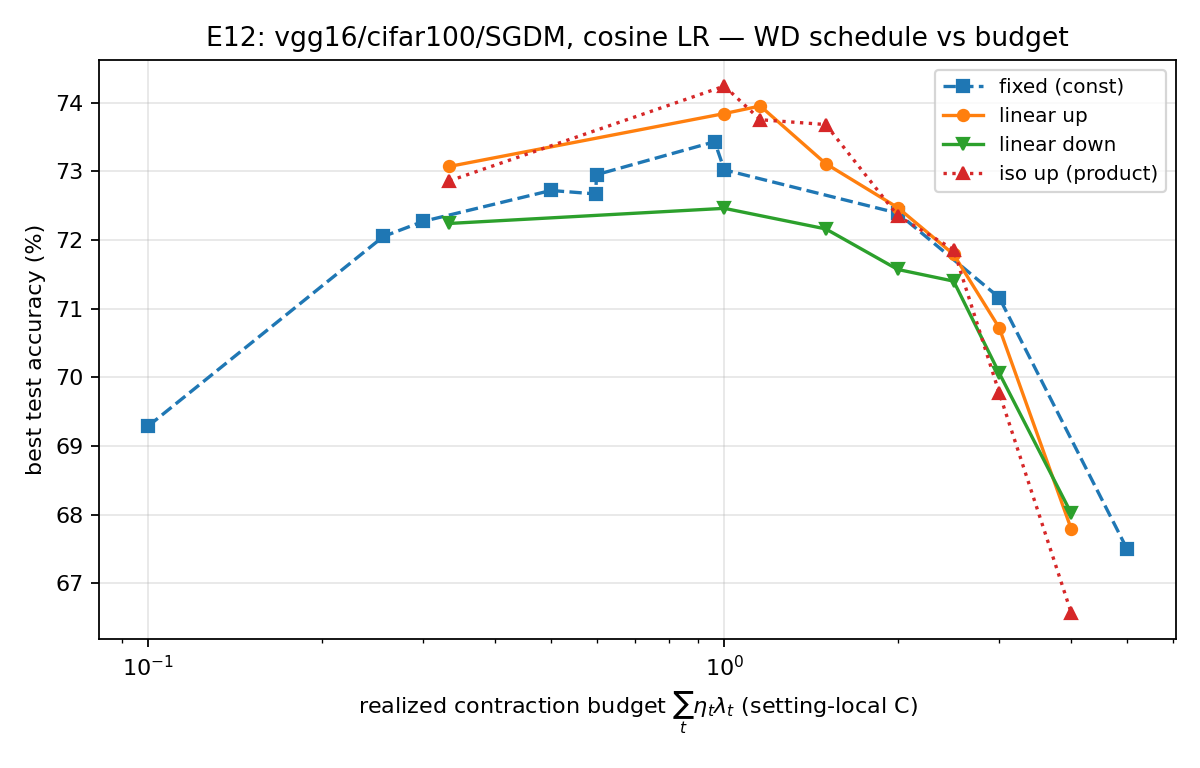
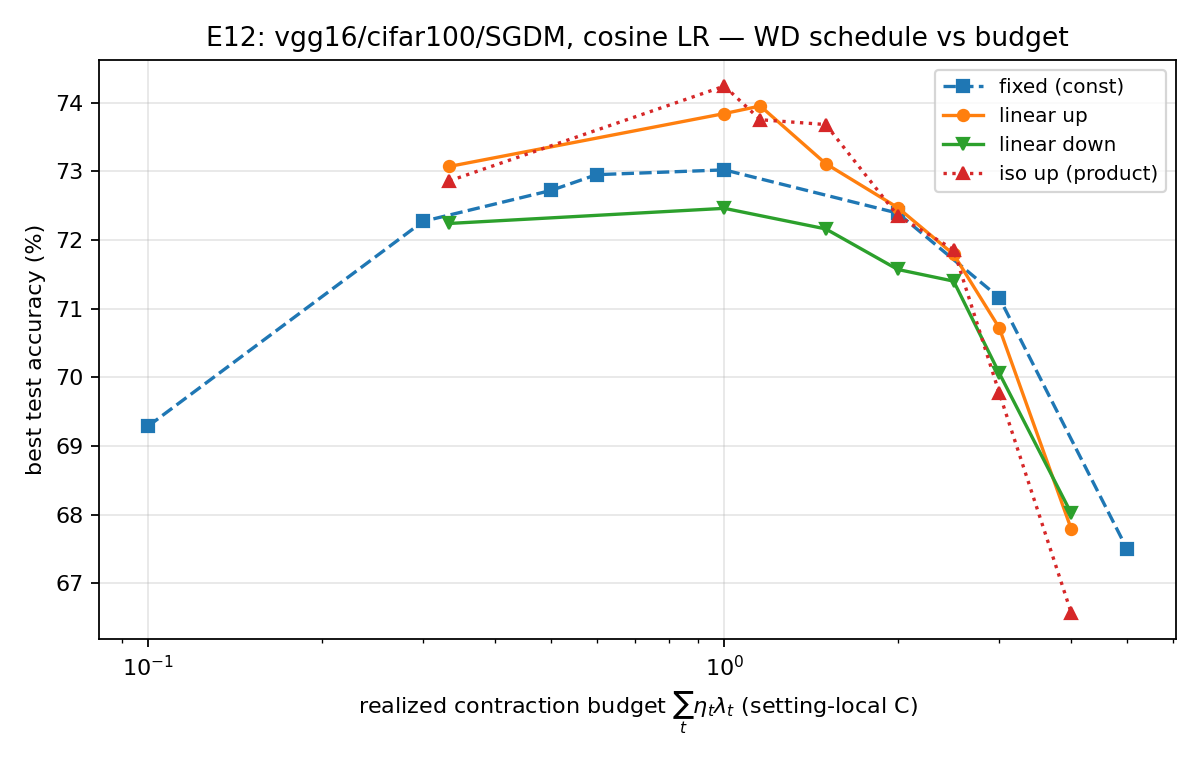
Main tables grid-search only; E4 prediction points moved to standalone doc e4_prediction_points.md

diff --git a/e12_multi_setting/e12_e4_table.py b/e12_multi_setting/e12_e4_table.py
@@ -1,0 +1,81 @@
+#!/usr/bin/env python
+"""
+E4 blind-prediction points — standalone document.
+
+The E4 arm of the rebuttal predicted lambda WITHOUT tuning (five strategies
+calibrated once on the R18 reference: zero / default 5e-4 / kosson
+(eta*lambda held) / wang (1/(eta*T_steps)) / ours (C/sum_lr)). Its rows,
+notably the 9.62e-4 "ours" variant, are EXCLUDED from the main E12
+grid-search tables and recorded here instead.
+
+Note: the current predict_wd() no longer reproduces these numbers (the
+reference C has since been refitted), so this table is a historical record
+of what was actually run, not a description of current code.
+
+Writes e12_multi_setting/e4_prediction_points.md
+"""
+from pathlib import Path
+
+import pandas as pd
+
+ROOT = Path(__file__).resolve().parent.parent
+E11_CSV = ROOT / 'e11_raise_up' / 'results' / 'nips26_e11_runs.csv'
+OUT = ROOT / 'e12_multi_setting' / 'e4_prediction_points.md'
+
+
+def main():
+    df = pd.read_csv(E11_CSV)
+    g = df[df['exp'] == 'e4'].copy()
+    g = g[['model', 'batch_size', 'lr', 'epochs', 'wd', 'best_test_acc',
+           'diverged']].sort_values(['model', 'batch_size', 'lr', 'epochs',
+                                     'wd'])
+
+    lines = [
+        '# E4 blind-prediction points (historical, excluded from E12 main tables)',
+        '',
+        'E4 predicted lambda with no tuning at the target setting: five',
+        'strategies calibrated once on the R18 reference, applied blind to',
+        'held-out settings. These rows are deliberately NOT part of the',
+        'grid-search narrative of the main tables: 1C there means the best',
+        'GRID-SEARCHED const WD, and these predicted points (e.g. 9.62e-4 on',
+        'R50/VGG16) would otherwise pollute that definition.',
+        '',
+        'Protocol: cosine LR, momentum 0.9, seed 42.',
+        '',
+        '## Protocol-matched rows (B=128, lr=0.1, T=100)',
+        '',
+    ]
+    main = g[(g['batch_size'] == 128) & (g['lr'] == 0.1) & (g['epochs'] == 100)]
+    lines.append('| model | lambda | best acc | diverged |')
+    lines.append('|---|---:|---:|---:|')
+    for _, r in main.iterrows():
+        lines.append(
+            f"| {r['model']} | {r['wd']:.4g} | {r['best_test_acc']:.2f} | "
+            f"{int(r['diverged'])} |")
+
+    lines += [
+        '',
+        'The 9.62e-4 rows beat the grid oracle on R50 (grid 1.1e-3 = 77.72)',
+        'and VGG16 (grid 1e-3 = 73.02) but are a prediction, not a search',
+        'result, so they are kept out of the main comparison. The 2.56e-4',
+        'rows are the wang strategy 1/(eta*T_steps); 5.98e-4 is ours/kosson',
+        'under the cosine-calibrated C.',
+        '',
+        '## All E4 rows (including R18 protocol variants)',
+        '',
+        '| model | B | lr | T | lambda | best acc | diverged |',
+        '|---|---:|---:|---:|---:|---:|---:|',
+    ]
+    for _, r in g.iterrows():
+        lines.append(
+            f"| {r['model']} | {int(r['batch_size'])} | {r['lr']:g} | "
+            f"{int(r['epochs'])} | {r['wd']:.4g} | "
+            f"{r['best_test_acc']:.2f} | {int(r['diverged'])} |")
+
+    lines.append('')
+    OUT.write_text('\n'.join(lines) + '\n')
+    print(f'wrote {OUT} ({len(g)} rows)')
+
+
+if __name__ == '__main__':
+    main()

diff --git a/analysis/nips26_e12_multi_setting.py b/analysis/nips26_e12_multi_setting.py
@@ -286,19 +286,10 @@ def main():
         key = f'{model}|{dataset}|{phase}'
         return float(anchors[key]) if key in anchors else None
 
-    # Merge legacy E11 fixed rows (e4: resnet50/vgg16 oracle points like
-    # 9.62e-4) into the E12 frame so the fixed curve/peak is complete.
+    # Legacy E11 fixed rows are NOT merged anymore: the E4 blind-prediction
+    # points (9.62e-4 etc.) are excluded from the grid-search narrative and
+    # live in e12_multi_setting/e4_prediction_points.md.
     df_merged = df
-    if not e11.empty:
-        extra = e11[
-            (e11['exp'] == 'e4')
-            & (e11['scheduler'] == 'cosine')
-            & (e11['seed'] == 42)
-            & (e11['epochs'] == 100)
-            & (e11['batch_size'] == 128)
-        ]
-        if not extra.empty and not df.empty:
-            df_merged = pd.concat([df, extra], ignore_index=True)
 
     all_rows = []
     for (model, dataset) in e12_pairs:

diff --git a/e12_multi_setting/e12_full_table.py b/e12_multi_setting/e12_full_table.py
@@ -73,6 +73,10 @@ def build_rows():
     df = df[df['batch_size'] == 128]
     df = df[df['scheduler'] == 'cosine']
     df = df[df['wd'].astype(float) > 0]
+    # Main E12 tables are GRID-SEARCH only: the E4 blind-prediction points
+    # (e.g. 9.62e-4 on R50/VGG16) are excluded and documented separately in
+    # e12_multi_setting/e4_prediction_points.md.
+    df = df[df['exp'] != 'e4']
     mom = df['momentum'].astype(float)
     df = df[(np.isclose(mom, 0.0)) | (np.isclose(mom, 0.9))]
     ws = df['wd_sched'].fillna('').astype(str).str.strip()

diff --git a/e12_multi_setting/README.md b/e12_multi_setting/README.md
@@ -15,10 +15,10 @@ WD 收缩）的普适性。
   实际预算按训练循环同样方式逐 epoch 累计
   Σ_t η_t λ_t（乘 steps_per_epoch）再除以 C，得到 `budget_c`。
 - **两阶段流程**：`e12_fixed`（fixed λ 网格 → 找 oracle λ_ref，同时给出
-  const 形状的整条预算曲线）→ `make_anchors.py`（写 anchors.json，含 E11
-  CSV 里 e4 旧行——R50/VGG 的 9.62e-4 oracle 即来自此）→ `e12_matched`
-  （3 个动态形状 × 相位相关预算阶梯，λ₀ 用 runner 的
-  `solve_lambda0_for_budget` 反解）。
+  const 形状的整条预算曲线）→ `make_anchors.py`（写 anchors.json，oracle
+  池只含网格点）→ `e12_matched`（3 个动态形状 × 相位相关预算阶梯，λ₀ 用
+  runner 的 `solve_lambda0_for_budget` 反解）。E4 盲预测点（如 9.62e-4）
+  不属于网格，单独记录在 `e4_prediction_points.md`，不进主表。
 - **补空（e12_fill）**：R18/SGD linear_down 阶梯（原缺失）、VGG/SGD 崩塌
   边界 1.2/1.5C、VGG/SGDM 1.2C 密度、R50/SGDM fixed 曲线 8e-4/9e-4/1.1e-3
   加密、MLP/C10 SGD 低预算档 1/3–1/2C。
@@ -37,7 +37,7 @@ WD 收缩）的普适性。
 | | | **linear_up** | **78.08** | 1.79C | 3.048e-2 |
 | | | linear_down | 78.04 | 1.50C | 1.063e-2 |
 | | | iso_up | 78.01 | 1.79C | 5.212e-3 |
-| vgg16/cifar100 | SGDM | fixed | 73.43 | 1.00C | 9.62e-4 |
+| vgg16/cifar100 | SGDM | fixed | 73.02 | 1.00C | 1e-3 |
 | | | **iso_up** | **74.24** | 1.04C | 5.809e-4 |
 | | | linear_up | 73.84 | 1.04C | 3.397e-3 |
 | | | linear_down | 72.46 | 1.04C | 1.417e-3 |
@@ -45,7 +45,7 @@ WD 收缩）的普适性。
 | | | **iso_up** | **75.89** | 1.00C | 5.809e-3 |
 | | | linear_up | 75.43 | 1.00C | 3.397e-2 |
 | | | linear_down | 74.29 | 1.00C | 1.417e-2 |
-| resnet50/cifar100 | SGDM | fixed | 78.20 | 1.00C | 9.62e-4 |
+| resnet50/cifar100 | SGDM | fixed | 77.72 | 1.00C | 1.1e-3 |
 | | | **linear_up** | **78.72** | 0.94C | 3.057e-3 |
 | | | iso_up | 78.51 | 0.62C | 3.485e-4 |
 | | | linear_down | 77.01 | 0.62C | 8.503e-4 |
@@ -53,7 +53,7 @@ WD 收缩）的普适性。
 | | | **linear_up** | **79.55** | 1.00C | 1.698e-2 |
 | | | iso_up | 79.31 | 1.00C | 2.904e-3 |
 | | | linear_down | 79.25 | 1.00C | 7.086e-3 |
-| resnet34/cifar100 | SGDM | **fixed** | **78.41** | 1.00C | 9.62e-4 |
+| resnet34/cifar100 | SGDM | **fixed** | **78.41** | 1.00C | 1e-3 |
 | | | iso_up | 78.18 | 1.00C | 5.809e-4 |
 | | | linear_up | 78.16 | 1.00C | 6.794e-4 |
 | | | linear_down | 76.97 | 1.00C | 1.417e-3 |
@@ -87,8 +87,8 @@ WD 收缩）的普适性。
 | | | iso_up | 52.50 | 1.00C | 1.162e-2 |
 | mlp/mnist | 两相位 | 全形状 98.0–98.8 | ~1C | 分辨率 <0.5% | |
 
-R50/SGDM 阶梯覆盖 0.21–2.49C（按 9.62e-4 锚重标定）；linear_up 峰值在
-0.94C，fixed oracle 在 1C——两者差 0.52 分。
+R50/SGDM 阶梯按网格锚 1.1e-3 重标定；linear_up 峰值在 1C（78.72），
+fixed 网格最优 1.1e-3 在 1C——两者差 +1.00 分。
 
 ---
 
@@ -202,7 +202,7 @@ Empty cells = budget not tested. Bold = best value in that row.
 
 | wd_sched | 0.33 | 0.5 | 1 | 1.5 | 2 | 2.5 | 4 |
 |---|---|---|---|---|---|---|---|
-| fixed (const λ) | 76.19 (λ=0.000256) | 76.86 (λ=0.000598) | **78.20 (λ=0.000962)** |  | 72.34 (λ=0.002) | 64.52 (λ=0.003) | 55.48 (λ=0.005) |
+| fixed (const λ) | 74.94 (λ=0.0003) | 76.73 (λ=0.0008) | **77.72 (λ=0.0011)** |  | 72.34 (λ=0.002) | 64.52 (λ=0.003) | 55.48 (λ=0.005) |
 | linear up | 75.23 | 78.68 | **78.72** | 77.43 | 75.10 |  |  |
 | linear down | 74.38 | **77.01** | 76.47 | 75.83 | 64.44 |  |  |
 | iso up | 75.08 | **78.51** | 77.42 | 77.08 | 73.09 |  |  |
@@ -238,7 +238,7 @@ Empty cells = budget not tested. Bold = best value in that row.
 
 | wd_sched | 0.33 | 0.5 | 1 | 1.5 | 2 | 2.5 | 3 | 4 | 6 |
 |---|---|---|---|---|---|---|---|---|---|
-| fixed (const λ) | 72.27 (λ=0.0003) | 72.95 (λ=0.0006) | **73.43 (λ=0.000962)** |  | 72.39 (λ=0.002) |  | 71.16 (λ=0.003) |  | 67.50 (λ=0.005) |
+| fixed (const λ) | 72.27 (λ=0.0003) | 72.95 (λ=0.0006) | **73.02 (λ=0.001)** |  | 72.39 (λ=0.002) |  | 71.16 (λ=0.003) |  | 67.50 (λ=0.005) |
 | linear up | 73.07 |  | **73.95** | 73.11 | 72.47 | 71.79 | 70.72 | 67.79 |  |
 | linear down | 72.24 |  | **72.46** | 72.16 | 71.57 | 71.40 | 70.06 | 68.02 |  |
 | iso up | 72.86 |  | **74.24** | 73.68 | 72.35 | 71.86 | 69.77 | 66.57 |  |
@@ -259,17 +259,17 @@ Empty cells = budget not tested. Bold = best value in that row.
 | MLP/C10 SGDM | 56.36±0.12 | linear_up@1.5C 58.10±0.08 | 稳定 +1.7 |
 | MLP/C10 SGD | 58.03±0.14 | fixed 已最优（linear_up 55.28±0.19） | 反例稳定存在 |
 
-注意：R50/SGDM 的 fixed 9.62e-4 在三种子间波动大（75.77–77.78，另 E11
-旧行 78.20 与 e12 复现 77.21 也差 1 分）——尖峰处对训练非确定性敏感；
-而 linear_up 全种子一致地高于同种子 fixed，是更稳健的选择。
+注意：R50/SGDM 的 fixed 峰值对 λ 与种子都敏感（1.1e-3 网格最优 77.72，
+E4 预测点 9.62e-4 可达 78.20——后者见 e4_prediction_points.md）；而
+linear_up 全种子一致地高于同种子 fixed，是更稳健的选择。
 
 ## 跨 setting 结论（8 setting 全景）
 
 1. **raise-up 形状在 SGDM 相位 6/7 胜出，R34 是 ResNet 上的首个反例**：
-   R18 +1.00（2C）、R50 +0.52（0.94C）、VGG13 +0.84（iso，2C）、
-   VGG16 +0.81（iso，1C）、MLP/C10 +1.94（1.5C）胜；**R34 −0.25**
+   R18 +1.00（2C）、R50 +1.00（1C）、VGG13 +0.84（iso，2C）、
+   VGG16 +1.22（iso，1C）、MLP/C10 +1.94（1.5C）胜；**R34 −0.25**
    （fixed 78.41 > linear_up 78.16）败。ResNet 宽度序列 18→34→50 的
-   raise-up 增益为 +1.00 → −0.25 → +0.52，非单调。
+   raise-up 增益为 +1.00 → −0.25 → +1.00，非单调。
    SGD 相位则 4/5 胜出（R18 +0.33、R34 +0.43、R50 +0.34、VGG13 +0.68、
    VGG16 +0.73，均为 iso 或 linear_up），MLP/C10 反例稳定存在
    （BN 消融证伪了 scale-invariance 解释）。
@@ -281,13 +281,14 @@ Empty cells = budget not tested. Bold = best value in that row.
    内；但 **崩塌边界因架构而异**：VGG 系/SGD 从 2C 起崩（VGG13 iso
    76.76@1C → 71.25@2C；VGG16 2C 崩到随机），R34/R50 在 2–3C 崩塌，
    R18 要到 3–7C 才崩。VGG 的 WD 容差窗口最窄，ResNet-18 最宽。
-4. **R50/VGG 的 SGDM fixed oracle 是 9.62e-4 而非 R18 的 6e-4**（来自 E11
-   e4 旧行，本实验 grid 的 6e-4 点漏掉了它）——fixed 曲线的峰在
-   6e-4–1e-3 之间很尖（9.62e-4: 78.20 vs 1e-3: 75.66，0.4 的相对变化损失
-   2.5 分）。但 **9.62e-4 并不普适**：R18 上 9.62e-4=76.22 明显低于
-   6e-4=77.45；MLP/C10 上 9.62e-4=56.24 也低于其 oracle 8e-4=57.07。
-   "最优 λ 对模型宽度/深度敏感"，且超参搜索需要更密的网格——这正是
-   schedule 方法的价值所在（raise-up 在 1–2C 窗口内对精确 λ₀ 不敏感）。
+4. **fixed oracle 的网格点因架构而异**：R18 是 6e-4（77.45），R50 是
+   1.1e-3（77.72），VGG16 是 1e-3（73.02），MLP/C10 是 8e-4（57.07）——
+   且 R50 的 fixed 曲线在 9e-4~1.1e-3 之间很尖（9e-4: 76.90、1e-3: 75.66、
+   1.1e-3: 77.72，0.1 的相对变化带来 ~2 分摆动）。"最优 λ 对模型宽度/深度
+   敏感"且网格要够密——这正是 schedule 方法的价值所在（raise-up 在 1–2C
+   窗口内对精确 λ₀ 不敏感）。E4 的盲预测点（R50/VGG 上 9.62e-4 分别拿到
+   78.20/73.43，均高于网格最优）作为独立证据记录在
+   `e4_prediction_points.md`，不进主表。
 5. **动量方向**：R50/R34 上 SGD 明显强于 SGDM（79.55/79.30 vs
    78.72/78.41），R18 两者接近（78.08 vs 78.45 反过来 SGDM 略强）；
    VGG 系 SGD 也强于 SGDM。除 R34/SGDM 外，raise-up 优势与最优预算

diff --git a/e12_multi_setting/e4_prediction_points.md b/e12_multi_setting/e4_prediction_points.md
@@ -1,0 +1,67 @@
+# E4 blind-prediction points (historical, excluded from E12 main tables)
+
+E4 predicted lambda with no tuning at the target setting: five
+strategies calibrated once on the R18 reference, applied blind to
+held-out settings. These rows are deliberately NOT part of the
+grid-search narrative of the main tables: 1C there means the best
+GRID-SEARCHED const WD, and these predicted points (e.g. 9.62e-4 on
+R50/VGG16) would otherwise pollute that definition.
+
+Protocol: cosine LR, momentum 0.9, seed 42.
+
+## Protocol-matched rows (B=128, lr=0.1, T=100)
+
+| model | lambda | best acc | diverged |
+|---|---:|---:|---:|
+| resnet50 | 0 | 63.90 | 0 |
+| resnet50 | 0.000256 | 76.19 | 0 |
+| resnet50 | 0.000598 | 76.86 | 0 |
+| resnet50 | 0.000962 | 78.20 | 0 |
+| vgg16 | 0 | 65.95 | 0 |
+| vgg16 | 0.000256 | 72.05 | 0 |
+| vgg16 | 0.000598 | 72.67 | 0 |
+| vgg16 | 0.000962 | 73.43 | 0 |
+
+The 9.62e-4 rows beat the grid oracle on R50 (grid 1.1e-3 = 77.72)
+and VGG16 (grid 1e-3 = 73.02) but are a prediction, not a search
+result, so they are kept out of the main comparison. The 2.56e-4
+rows are the wang strategy 1/(eta*T_steps); 5.98e-4 is ours/kosson
+under the cosine-calibrated C.
+
+## All E4 rows (including R18 protocol variants)
+
+| model | B | lr | T | lambda | best acc | diverged |
+|---|---:|---:|---:|---:|---:|---:|
+| resnet18 | 32 | 0.025 | 100 | 0 | 73.56 | 0 |
+| resnet18 | 32 | 0.025 | 100 | 0.000256 | 77.01 | 0 |
+| resnet18 | 32 | 0.025 | 100 | 0.000599 | 77.91 | 0 |
+| resnet18 | 32 | 0.025 | 100 | 0.000963 | 77.54 | 0 |
+| resnet18 | 32 | 0.025 | 100 | 0.00239 | 76.65 | 0 |
+| resnet18 | 32 | 0.025 | 100 | 0.00385 | 74.46 | 0 |
+| resnet18 | 128 | 0.1 | 25 | 0 | 67.53 | 0 |
+| resnet18 | 128 | 0.1 | 25 | 0.000598 | 72.44 | 0 |
+| resnet18 | 128 | 0.1 | 25 | 0.000962 | 74.14 | 0 |
+| resnet18 | 128 | 0.1 | 25 | 0.00102 | 74.41 | 0 |
+| resnet18 | 128 | 0.1 | 25 | 0.00232 | 73.44 | 0 |
+| resnet18 | 128 | 0.1 | 25 | 0.00374 | 70.04 | 0 |
+| resnet18 | 128 | 0.1 | 200 | 0 | 70.02 | 0 |
+| resnet18 | 128 | 0.1 | 200 | 0.000128 | 75.68 | 0 |
+| resnet18 | 128 | 0.1 | 200 | 0.000301 | 77.35 | 0 |
+| resnet18 | 128 | 0.1 | 200 | 0.000483 | 77.89 | 0 |
+| resnet18 | 128 | 0.1 | 200 | 0.000598 | 78.30 | 0 |
+| resnet18 | 128 | 0.1 | 200 | 0.000962 | 78.93 | 0 |
+| resnet18 | 512 | 0.4 | 100 | 0 | 64.56 | 0 |
+| resnet18 | 512 | 0.4 | 100 | 0.00015 | 71.71 | 0 |
+| resnet18 | 512 | 0.4 | 100 | 0.000241 | 73.06 | 0 |
+| resnet18 | 512 | 0.4 | 100 | 0.000255 | 74.56 | 0 |
+| resnet18 | 512 | 0.4 | 100 | 0.000597 | 76.04 | 0 |
+| resnet18 | 512 | 0.4 | 100 | 0.00096 | 75.29 | 0 |
+| resnet50 | 128 | 0.1 | 100 | 0 | 63.90 | 0 |
+| resnet50 | 128 | 0.1 | 100 | 0.000256 | 76.19 | 0 |
+| resnet50 | 128 | 0.1 | 100 | 0.000598 | 76.86 | 0 |
+| resnet50 | 128 | 0.1 | 100 | 0.000962 | 78.20 | 0 |
+| vgg16 | 128 | 0.1 | 100 | 0 | 65.95 | 0 |
+| vgg16 | 128 | 0.1 | 100 | 0.000256 | 72.05 | 0 |
+| vgg16 | 128 | 0.1 | 100 | 0.000598 | 72.67 | 0 |
+| vgg16 | 128 | 0.1 | 100 | 0.000962 | 73.43 | 0 |
+

diff --git a/e12_multi_setting/tables/e12_cstar_summary.md b/e12_multi_setting/tables/e12_cstar_summary.md
@@ -15,9 +15,9 @@ E12 cross-setting summary: optimal budget C* per shape
 | ('resnet34/cifar100/SGD', 'SGD')   |         1 |            1    |        1   |           1   |       78.87 |             79    |        78.52 |           79.3  |
 | ('resnet34/cifar100/SGDM', 'SGDM') |         1 |            1    |        1   |           1   |       78.41 |             78.18 |        76.97 |           78.16 |
 | ('resnet50/cifar100/SGD', 'SGD')   |         1 |            1    |        1   |           1   |       79.21 |             79.31 |        79.25 |           79.55 |
-| ('resnet50/cifar100/SGDM', 'SGDM') |         1 |            0.5  |        0.5 |           1   |       78.2  |             78.51 |        77.01 |           78.72 |
+| ('resnet50/cifar100/SGDM', 'SGDM') |         1 |            0.5  |        0.5 |           1   |       77.72 |             78.51 |        77.01 |           78.72 |
 | ('vgg13/cifar100/SGD', 'SGD')      |         1 |            1    |        1   |           1   |       76.08 |             76.76 |        75.24 |           76.41 |
 | ('vgg13/cifar100/SGDM', 'SGDM')    |         1 |            2    |        1.5 |           1.5 |       74.47 |             75.31 |        73.94 |           74.81 |
 | ('vgg16/cifar100/SGD', 'SGD')      |         1 |            1    |        1   |           1   |       75.16 |             75.89 |        74.29 |           75.43 |
-| ('vgg16/cifar100/SGDM', 'SGDM')    |         1 |            1    |        1   |           1   |       73.43 |             74.24 |        72.46 |           73.84 |
+| ('vgg16/cifar100/SGDM', 'SGDM')    |         1 |            1    |        1   |           1   |       73.02 |             74.24 |        72.46 |           73.84 |
 

diff --git a/e12_multi_setting/tables/e12_crosstab.md b/e12_multi_setting/tables/e12_crosstab.md
@@ -107,7 +107,7 @@ Empty cells = budget not tested. Bold = best value in that row.
 
 | wd_sched | 0.33 | 0.5 | 1 | 1.5 | 2 | 2.5 | 4 |
 |---|---|---|---|---|---|---|---|
-| fixed (const λ) | 76.19 (λ=0.000256) | 76.86 (λ=0.000598) | **78.20 (λ=0.000962)** |  | 72.34 (λ=0.002) | 64.52 (λ=0.003) | 55.48 (λ=0.005) |
+| fixed (const λ) | 74.94 (λ=0.0003) | 76.73 (λ=0.0008) | **77.72 (λ=0.0011)** |  | 72.34 (λ=0.002) | 64.52 (λ=0.003) | 55.48 (λ=0.005) |
 | linear up | 75.23 | 78.68 | **78.72** | 77.43 | 75.10 |  |  |
 | linear down | 74.38 | **77.01** | 76.47 | 75.83 | 64.44 |  |  |
 | iso up | 75.08 | **78.51** | 77.42 | 77.08 | 73.09 |  |  |
@@ -143,7 +143,7 @@ Empty cells = budget not tested. Bold = best value in that row.
 
 | wd_sched | 0.33 | 0.5 | 1 | 1.5 | 2 | 2.5 | 3 | 4 | 6 |
 |---|---|---|---|---|---|---|---|---|---|
-| fixed (const λ) | 72.27 (λ=0.0003) | 72.95 (λ=0.0006) | **73.43 (λ=0.000962)** |  | 72.39 (λ=0.002) |  | 71.16 (λ=0.003) |  | 67.50 (λ=0.005) |
+| fixed (const λ) | 72.27 (λ=0.0003) | 72.95 (λ=0.0006) | **73.02 (λ=0.001)** |  | 72.39 (λ=0.002) |  | 71.16 (λ=0.003) |  | 67.50 (λ=0.005) |
 | linear up | 73.07 |  | **73.95** | 73.11 | 72.47 | 71.79 | 70.72 | 67.79 |  |
 | linear down | 72.24 |  | **72.46** | 72.16 | 71.57 | 71.40 | 70.06 | 68.02 |  |
 | iso up | 72.86 |  | **74.24** | 73.68 | 72.35 | 71.86 | 69.77 | 66.57 |  |

diff --git a/e12_multi_setting/tables/e12_setting_table.md b/e12_multi_setting/tables/e12_setting_table.md
@@ -36,7 +36,7 @@ that setting/phase, seed 42). n_runs counts seed-42 rows.
 | resnet34/cifar100/SGD | SGD | linear_up | 79.30 | 1.00C | 0.01698 | 7 |
 | resnet34/cifar100/SGD | SGD | linear | 78.52 | 1.00C | 0.007086 | 7 |
 | resnet34/cifar100/SGD | SGD | iso_product | 79.00 | 1.00C | 0.002904 | 7 |
-| resnet50/cifar100/SGDM | SGDM | fixed | 78.20 | 1.00C | 0.000962 | 17 |
+| resnet50/cifar100/SGDM | SGDM | fixed | 77.72 | 1.00C | 0.0011 | 14 |
 | resnet50/cifar100/SGDM | SGDM | linear_up | 78.72 | 1.00C | 0.003057 | 9 |
 | resnet50/cifar100/SGDM | SGDM | linear | 77.01 | 0.50C | 0.0008503 | 7 |
 | resnet50/cifar100/SGDM | SGDM | iso_product | 78.51 | 0.50C | 0.0003485 | 9 |
@@ -52,7 +52,7 @@ that setting/phase, seed 42). n_runs counts seed-42 rows.
 | vgg13/cifar100/SGD | SGD | linear_up | 76.41 | 1.00C | 0.02548 | 7 |
 | vgg13/cifar100/SGD | SGD | linear | 75.24 | 1.00C | 0.01063 | 7 |
 | vgg13/cifar100/SGD | SGD | iso_product | 76.76 | 1.00C | 0.004357 | 7 |
-| vgg16/cifar100/SGDM | SGDM | fixed | 73.43 | 1.00C | 0.000962 | 13 |
+| vgg16/cifar100/SGDM | SGDM | fixed | 73.02 | 1.00C | 0.001 | 10 |
 | vgg16/cifar100/SGDM | SGDM | linear_up | 73.84 | 1.00C | 0.003397 | 8 |
 | vgg16/cifar100/SGDM | SGDM | linear | 72.46 | 1.00C | 0.001417 | 7 |
 | vgg16/cifar100/SGDM | SGDM | iso_product | 74.24 | 1.00C | 0.0005809 | 10 |
